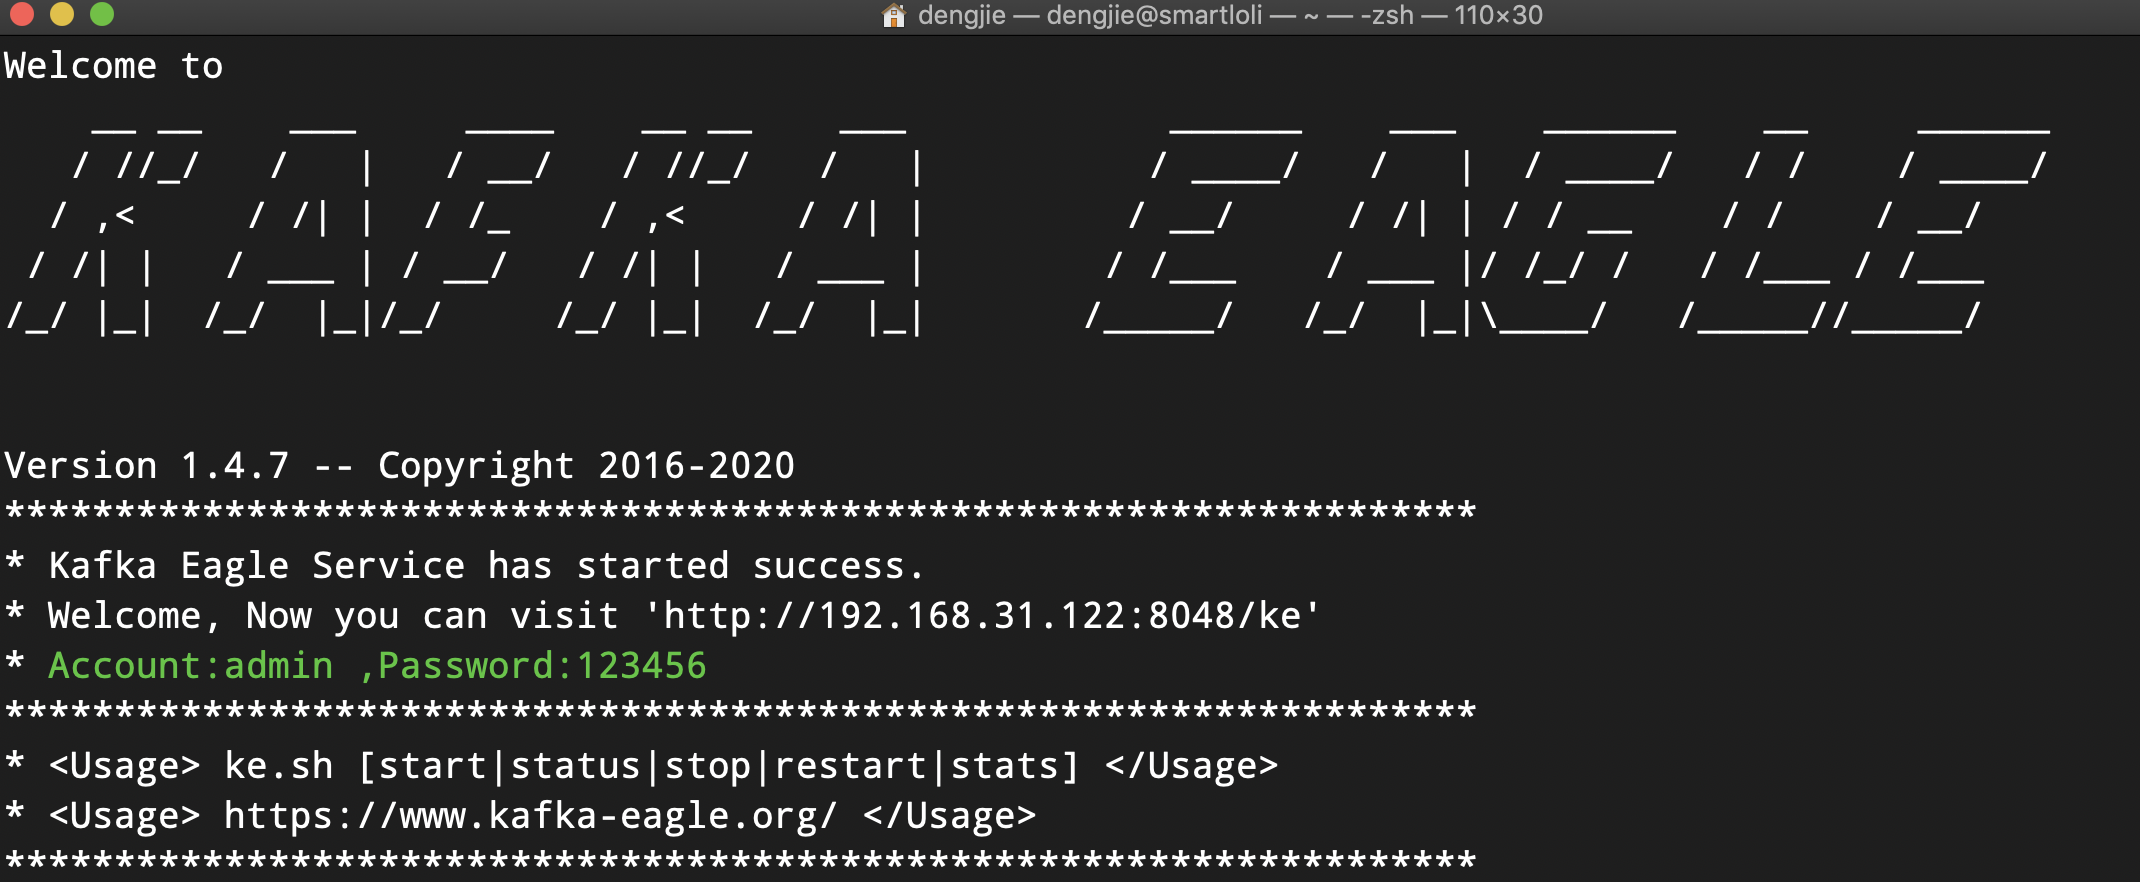
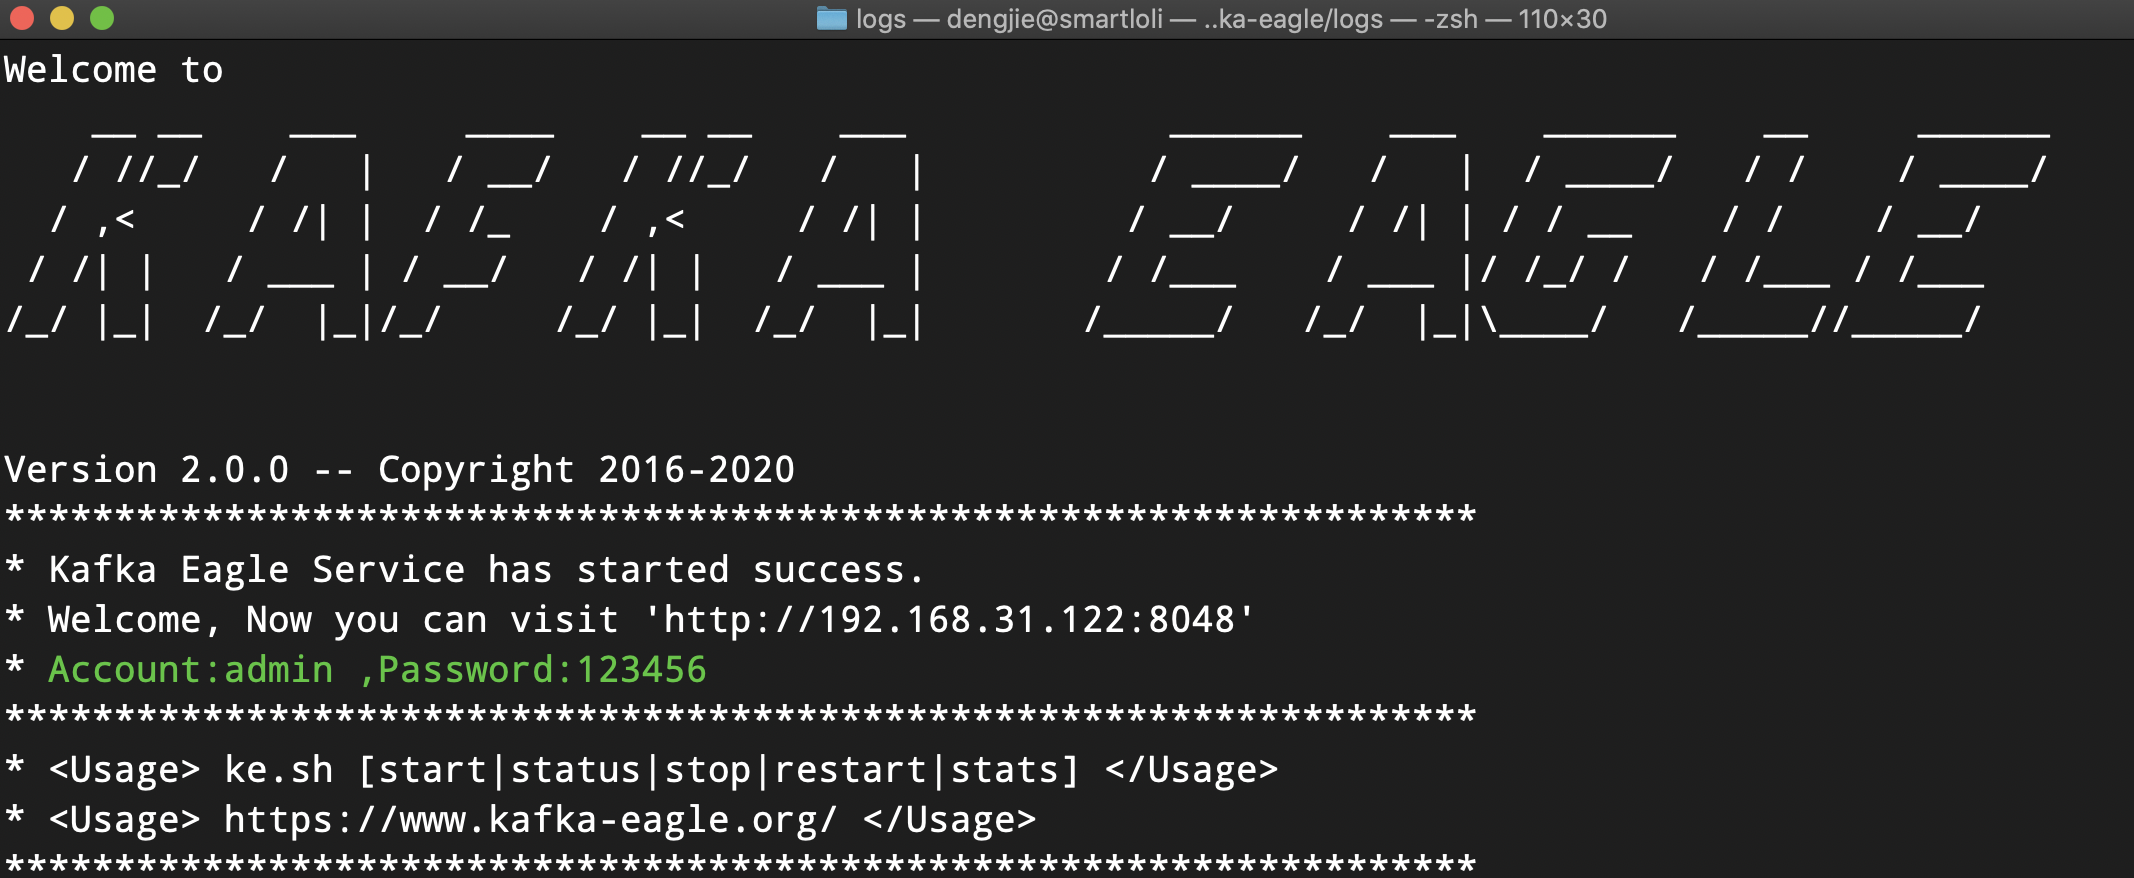
release v2.0.0

diff --git a/index.html b/index.html
@@ -25,7 +25,6 @@
         <div class="wrap"><a href="" class="nav-home"><img style="border: 2px solid #fff;border-radius: 50%;margin-top: 4px;margin-left: 10px;float: left;" src="images/ke_login.png" width="40" height="40" class="nav-logo">&nbsp;<span class="blur-label">Kafka-</span>Eagle</a>
           <ul class="nav-site nav-site-internal">
             <li><a href="" class="active">Home</a></li>
-            <!-- <li><a href="https://docs.kafka-eagle.org/" target="_blank">Docs</a></li> -->
             <li><a href="articles/docs/documentation.html">Docs</a></li>
             <li><a href="https://www.cnblogs.com/smartloli" target="_blank">Blog</a></li>
             <li><a href="articles/article/wechat.html">Articles</a></li>
@@ -38,7 +37,7 @@
           <div class="wrap">
             <div class="text"><strong>Kafka-<span class="white-text">Eagle</span></strong></div>
             <div class="minitext">A Easy and High-Performance Monitoring System</div>
-            <div class="buttons-unit"><a href="articles/docs/documentation.html" target="_blank" class="button">Installation guidelines</a><a href="http://download.kafka-eagle.org/" target="_blank" class="button">Download (v1.4.8)</a></div>
+            <div class="buttons-unit"><a href="articles/docs/documentation.html" target="_blank" class="button">Installation guidelines</a><a href="http://download.kafka-eagle.org/" target="_blank" class="button">Download (v2.0.0)</a></div>
             <div class="admin-screenshots">
               <div class="admin-screenshot">
                 <div class="browser-mockup"><a href="#" target="_blank" class="demo-link"><img src="images/Dashboard@2x.png"><span class="demo-link-label">Kafka Eagle</span></a></div>

diff --git a/articles/docs/changelog/changelog.html b/articles/docs/changelog/changelog.html
@@ -96,6 +96,14 @@
         <h1>ChangeLog</h1>
         <div class="subHeader"><i class="fa fa-home"></i> > <a href="" style="text-decoration:none;">ChangeLog</a> >
           ChangeLog</div>
+        <h3>[Release V2.0.0] 2020-07-03</h3>
+          <p>[Release] Add：Release <a href="https://github.com/smartloli/kafka-eagle-bin/archive/v2.0.0.tar.gz"
+              style="text-decoration:none;" target="_blank">Kafka Eagle V2.0.0</a> version,The following changes:</p>
+          <ol>
+            <li>Optimize KSQL Feature.</li>
+            <li>Fixed Zookeeper ACL.</li>
+            <li>Add New WebConsole By Kafka Eagle V2.0.0.</li>
+        </ol>  
         <h3>[Release V1.4.8] 2020-06-02</h3>
           <p>[Release] Add：Release <a href="https://github.com/smartloli/kafka-eagle-bin/archive/v1.4.8.tar.gz"
               style="text-decoration:none;" target="_blank">Kafka Eagle V1.4.8</a> version,The following changes:</p>
